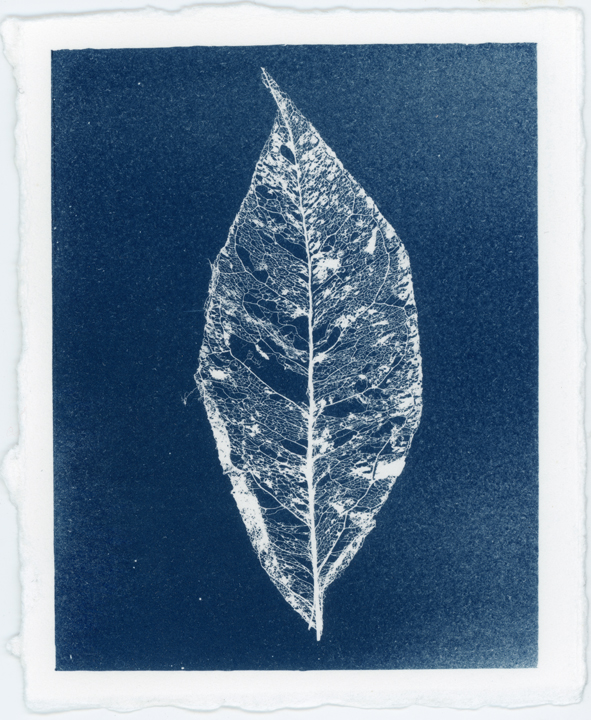
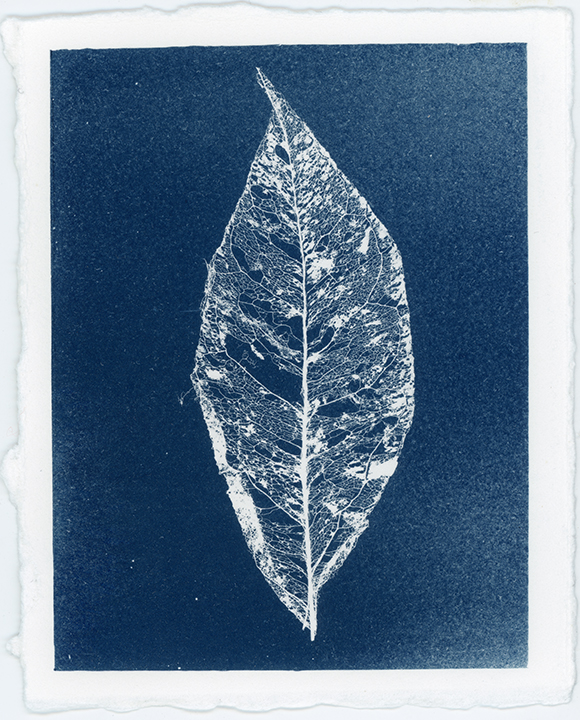
adding cyanotypes

Changed region(s): [[0.3414, 0.1222, 0.7138, 0.8556], [0.4034, 0.7028, 0.4345, 0.7639], [0.4345, 0.0917, 0.4655, 0.1222]]

diff --git a/index.html b/index.html
@@ -28,7 +28,6 @@
         <div class="col">
           <div>
             <div id="p5div">
-
             </div>
           </div>
         </div>
@@ -61,4 +60,6 @@ x default date
 * add gan video of family?
 * reduce tree to something more reasonable
 * create gate + tent structure
+* change displayed time to mapped time
+* add all cyanotypes
 -->

diff --git a/js/scene.js b/js/scene.js
@@ -66,7 +66,7 @@ let calcSun = function() {
   let lat = 34.1
   let long = -118.4
   let radius = 5;
-  let rate = 20.0;
+  let rate = 40.0;
 
   let sunPos = SunCalc.getPosition(new Date(), lat, long);
   if (activeStart != undefined && activeEnd != undefined) {

diff --git a/js/sketch.js b/js/sketch.js
@@ -1,6 +1,6 @@
 let cyanotypes = [];
 let cyanoButtons = [];
-let numImgs = 10;
+let numImgs = 69;
 
 let cyanoButton;
 let metadata;
